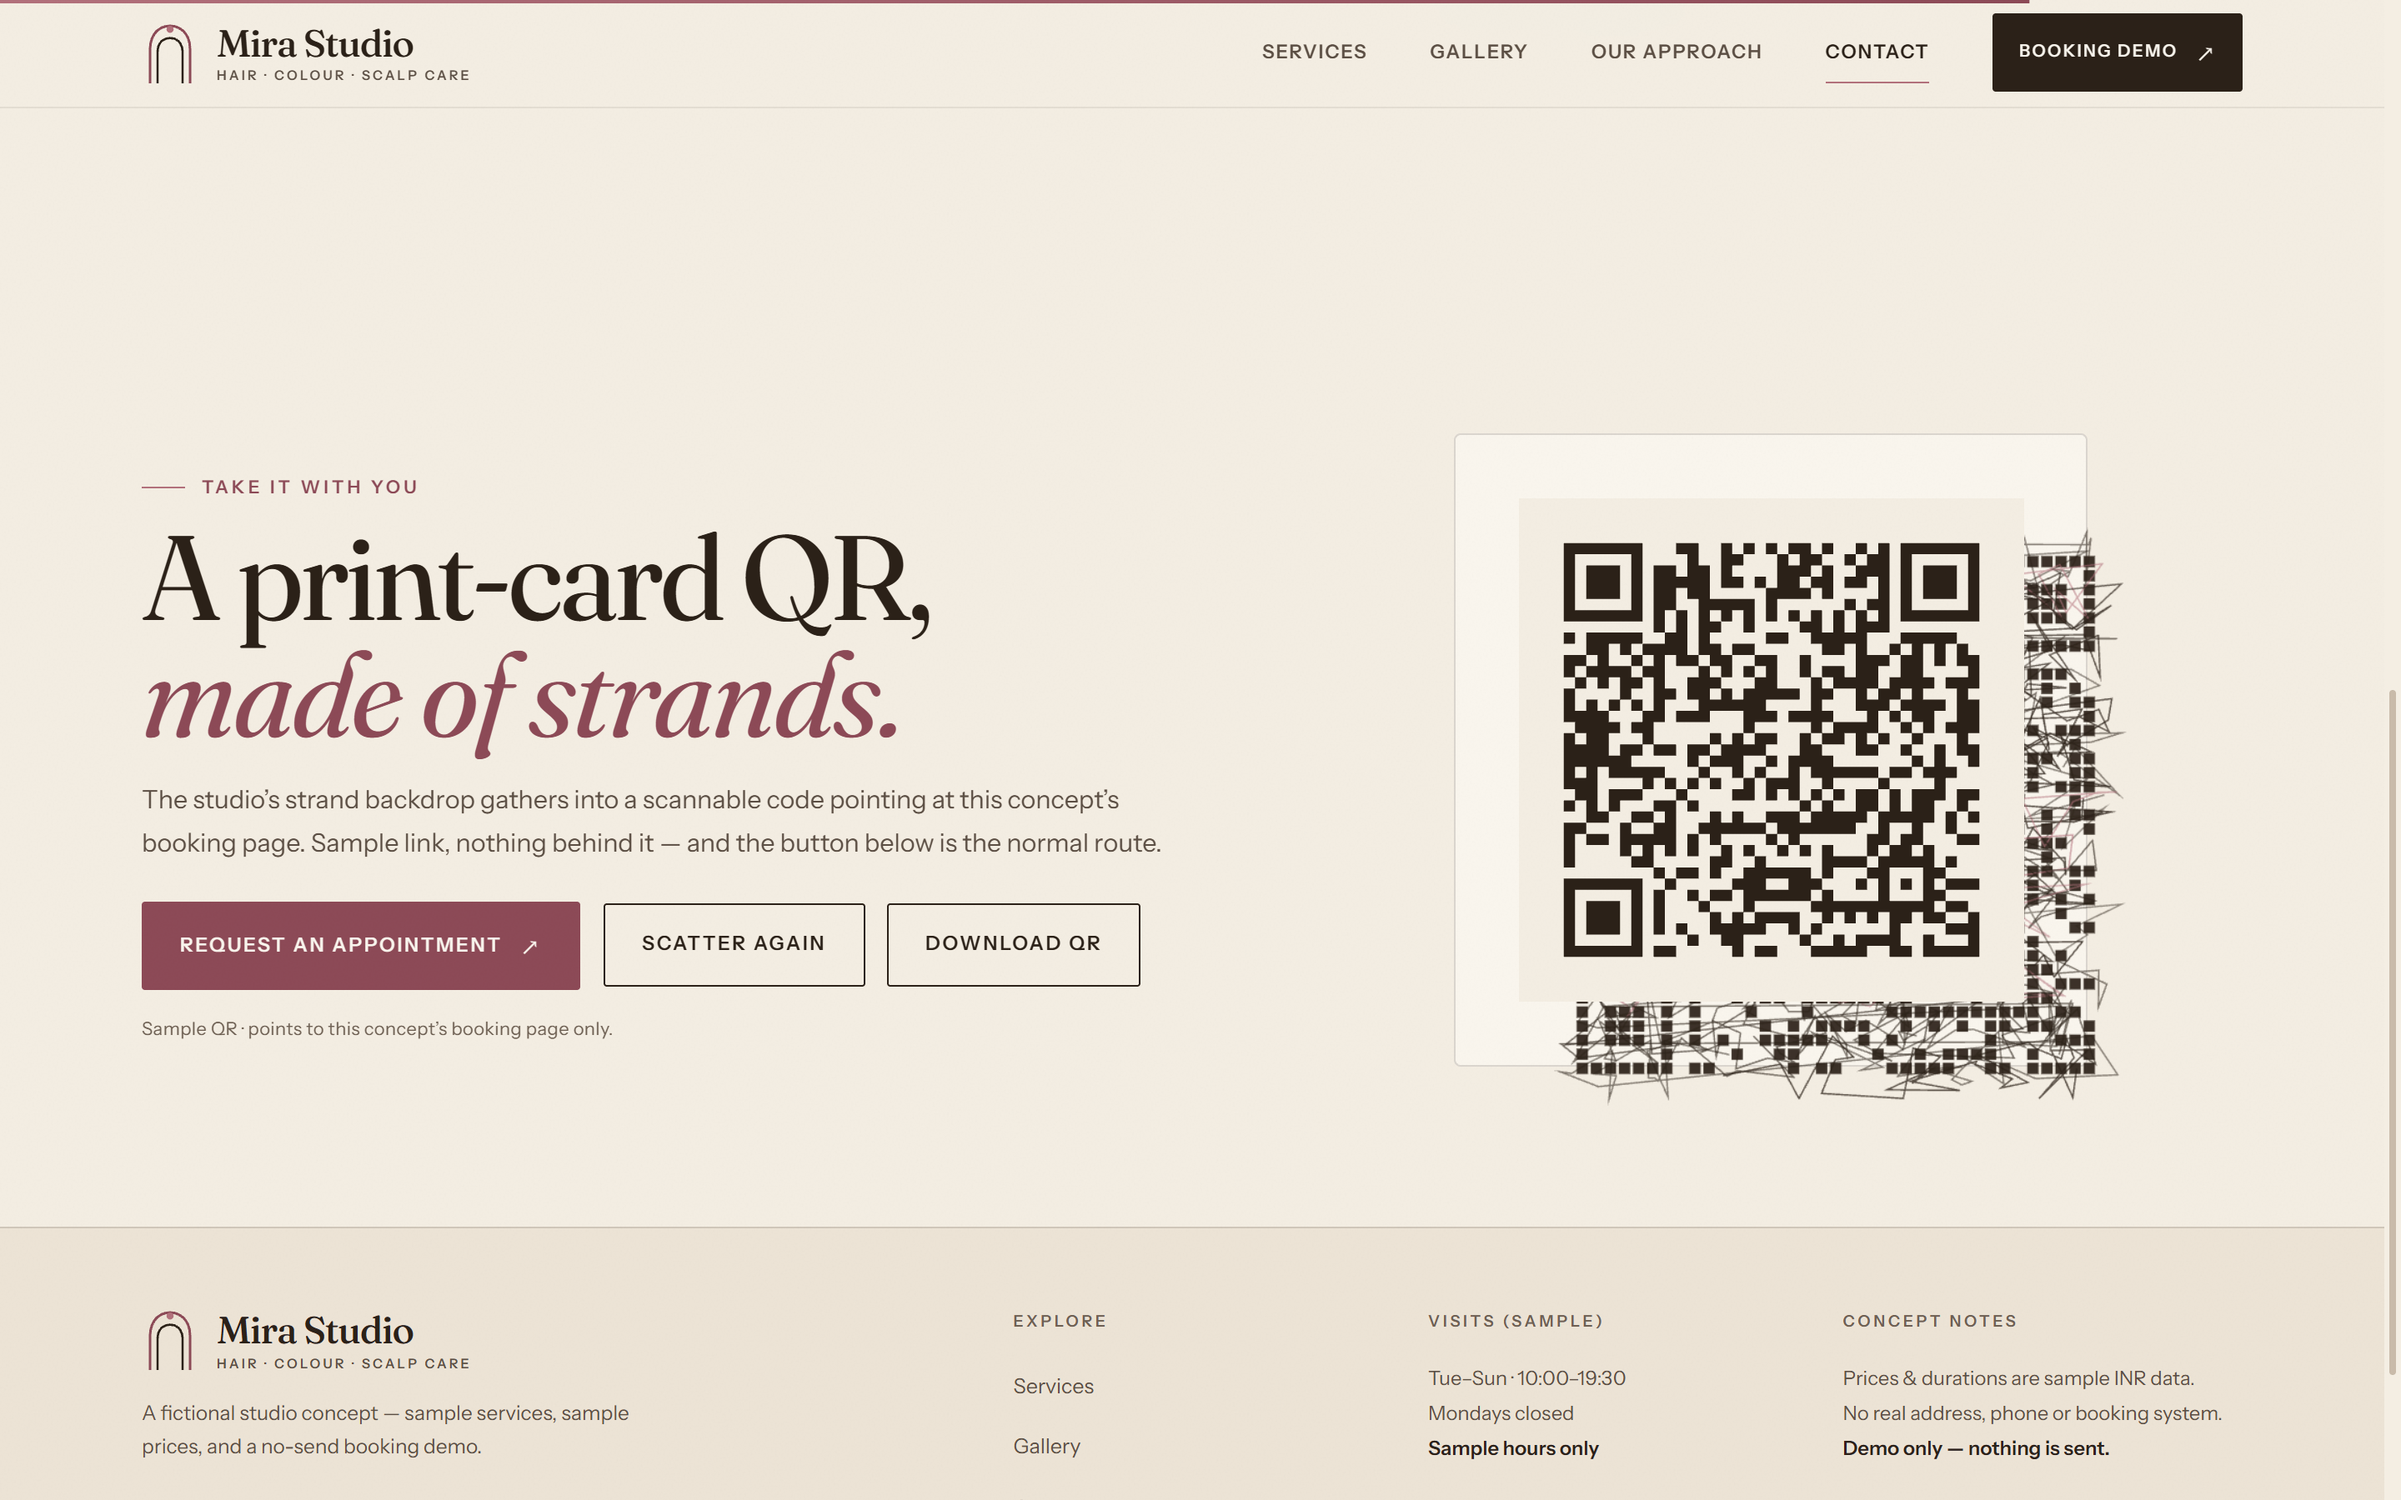
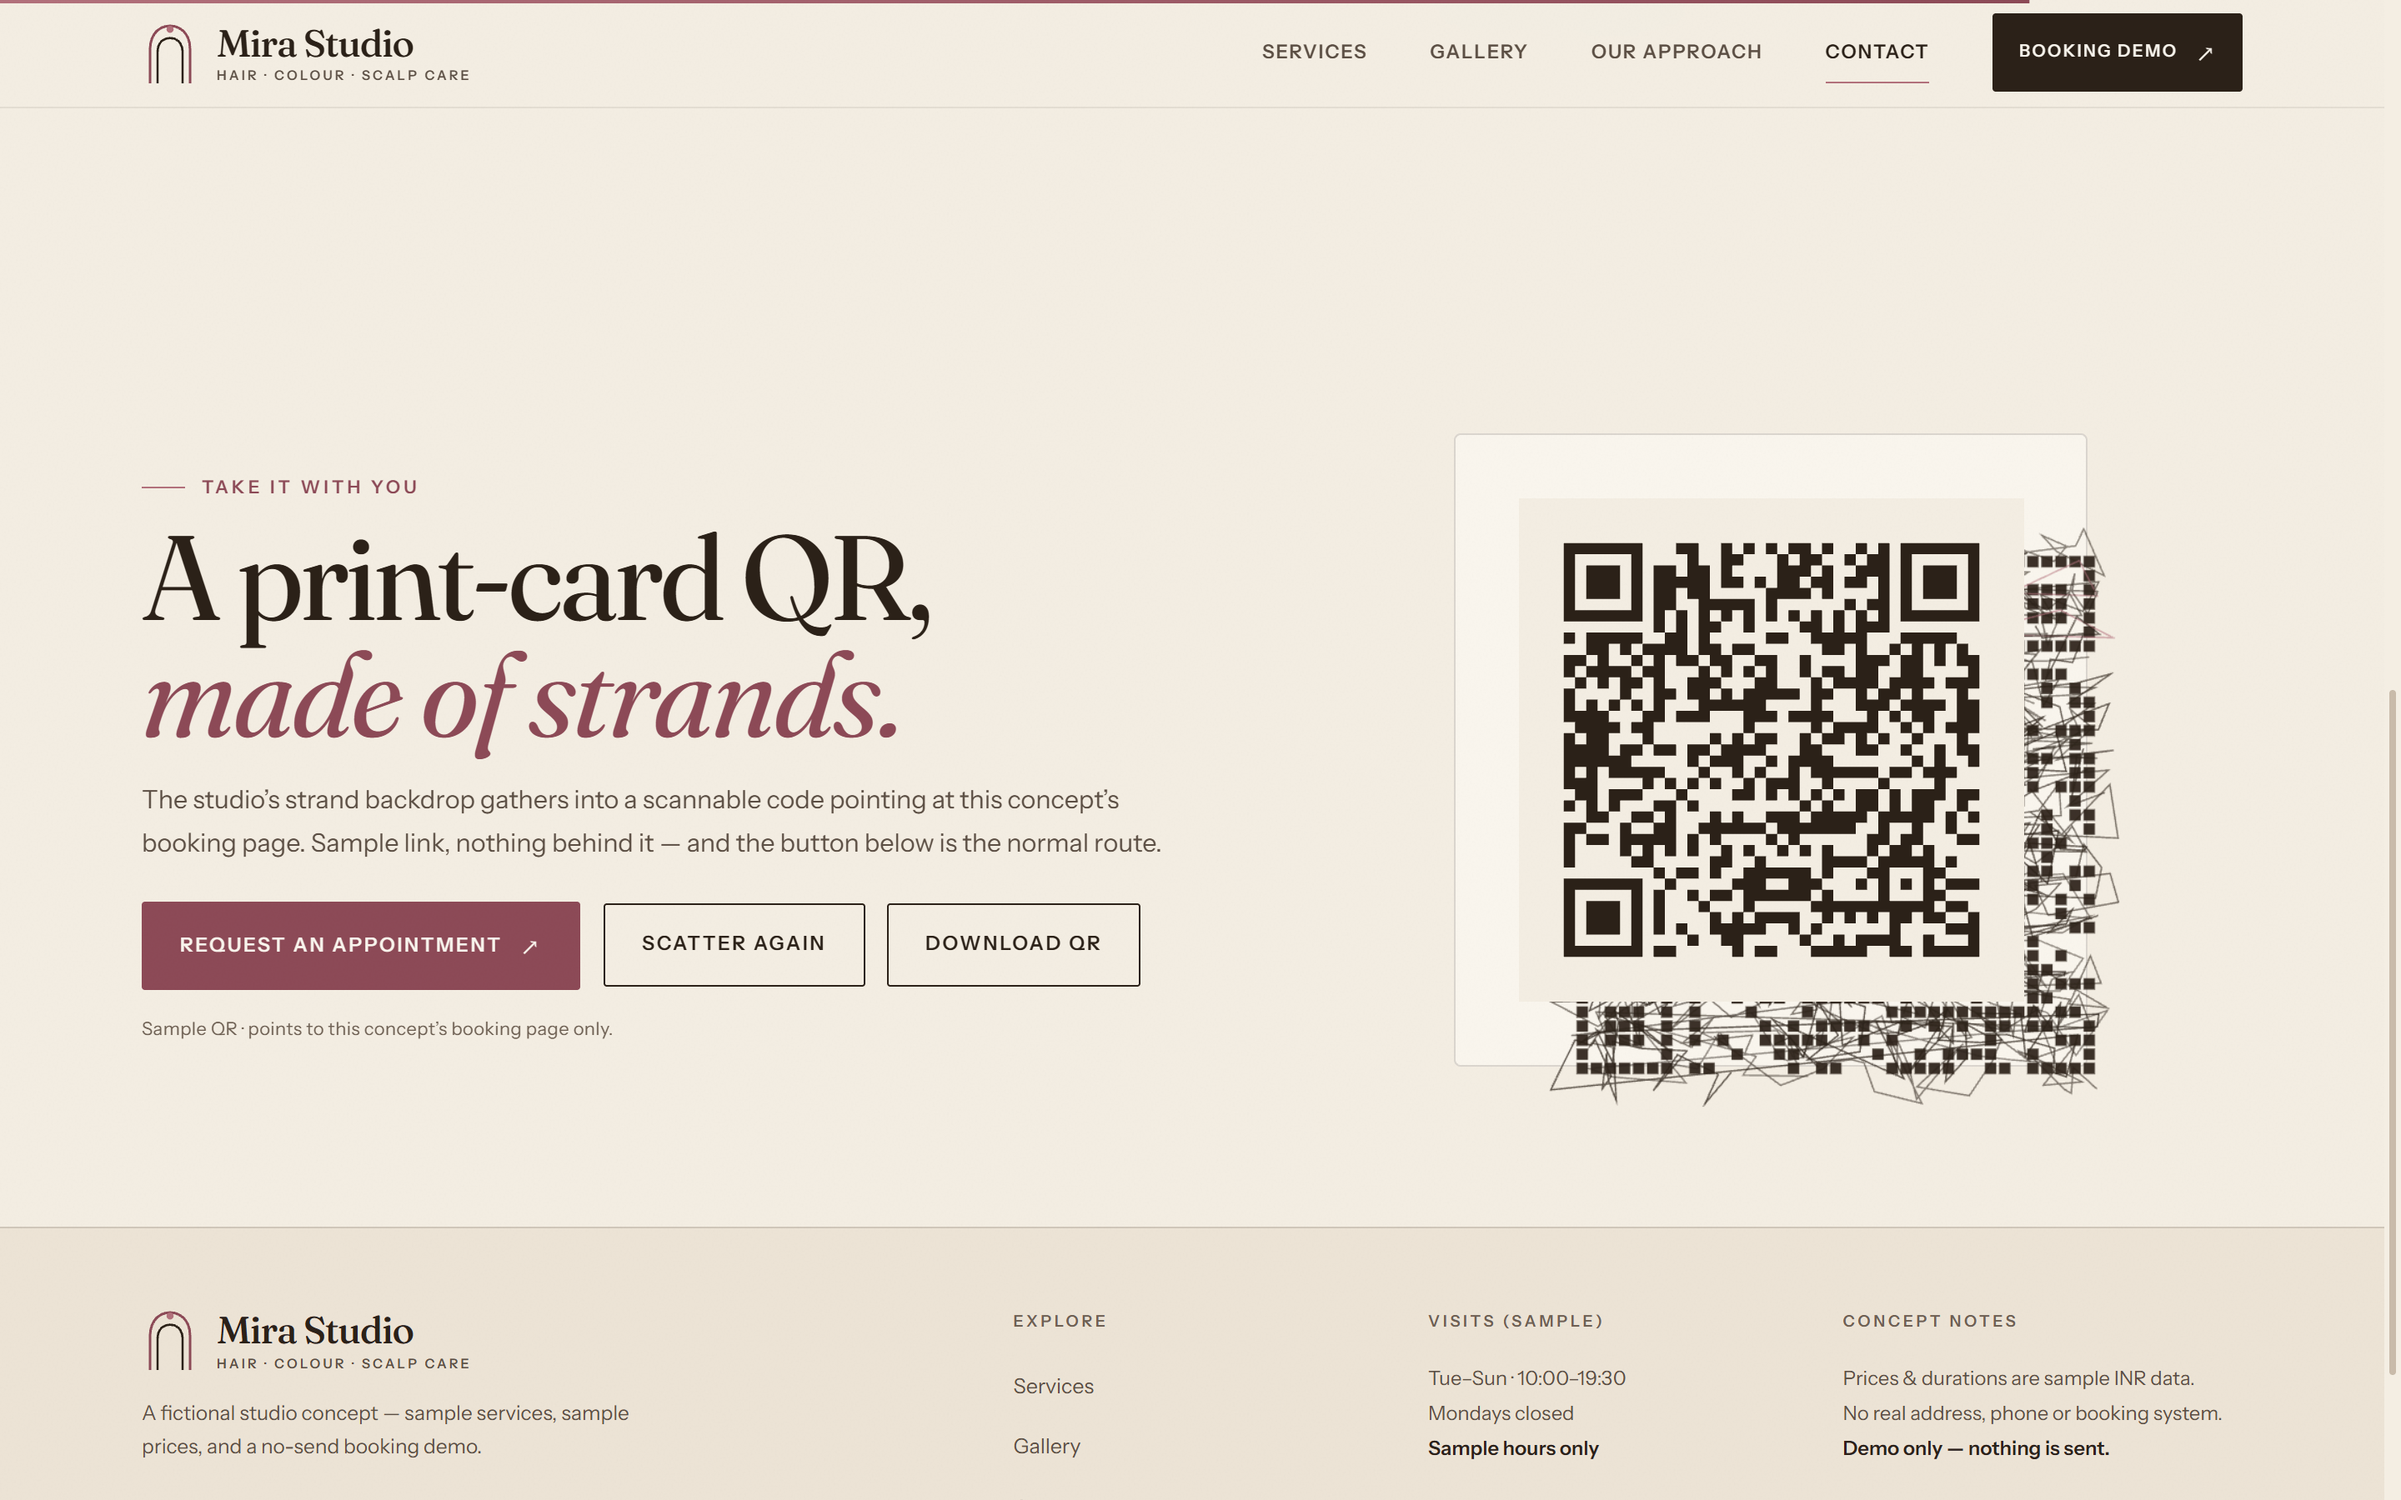
Mira QR: fade canvas out once the static code resolves (clean final state)

Changed region(s): [[0.6562, 0.3422, 0.875, 0.7467]]

diff --git a/mira-studio/_build/p2.html b/mira-studio/_build/p2.html
@@ -339,7 +339,8 @@ dialog::backdrop{background:rgba(30,22,20,.5)}
 /* 29 · STRAND QR ---------------------------------------------- */
 .qr-band{display:grid;grid-template-columns:minmax(0,1.05fr) minmax(280px,.95fr);gap:clamp(28px,5vw,70px);align-items:center}
 .qr-panel{position:relative;aspect-ratio:1/1;width:min(100%,380px);justify-self:center;border:1px solid var(--line);background:var(--paper-3);border-radius:4px;padding:10%}
-.qr-panel canvas{position:absolute;inset:10%;width:80%;height:80%;z-index:1}
+.qr-panel canvas{position:absolute;inset:10%;width:80%;height:80%;z-index:1;opacity:1;transition:opacity .5s ease}
+.qr-live.is-on canvas{opacity:0}
 .qr-static{position:absolute;inset:10%;width:80%;height:80%;z-index:2;opacity:0;animation:qrIn .9s ease .35s forwards}
 .qr-live .qr-static{animation:none;opacity:0;transition:opacity .5s ease}
 .qr-live.is-on .qr-static{opacity:1}

diff --git a/mira-studio/index.html b/mira-studio/index.html
@@ -615,7 +615,8 @@ dialog::backdrop{background:rgba(30,22,20,.5)}
 /* 29 · STRAND QR ---------------------------------------------- */
 .qr-band{display:grid;grid-template-columns:minmax(0,1.05fr) minmax(280px,.95fr);gap:clamp(28px,5vw,70px);align-items:center}
 .qr-panel{position:relative;aspect-ratio:1/1;width:min(100%,380px);justify-self:center;border:1px solid var(--line);background:var(--paper-3);border-radius:4px;padding:10%}
-.qr-panel canvas{position:absolute;inset:10%;width:80%;height:80%;z-index:1}
+.qr-panel canvas{position:absolute;inset:10%;width:80%;height:80%;z-index:1;opacity:1;transition:opacity .5s ease}
+.qr-live.is-on canvas{opacity:0}
 .qr-static{position:absolute;inset:10%;width:80%;height:80%;z-index:2;opacity:0;animation:qrIn .9s ease .35s forwards}
 .qr-live .qr-static{animation:none;opacity:0;transition:opacity .5s ease}
 .qr-live.is-on .qr-static{opacity:1}
